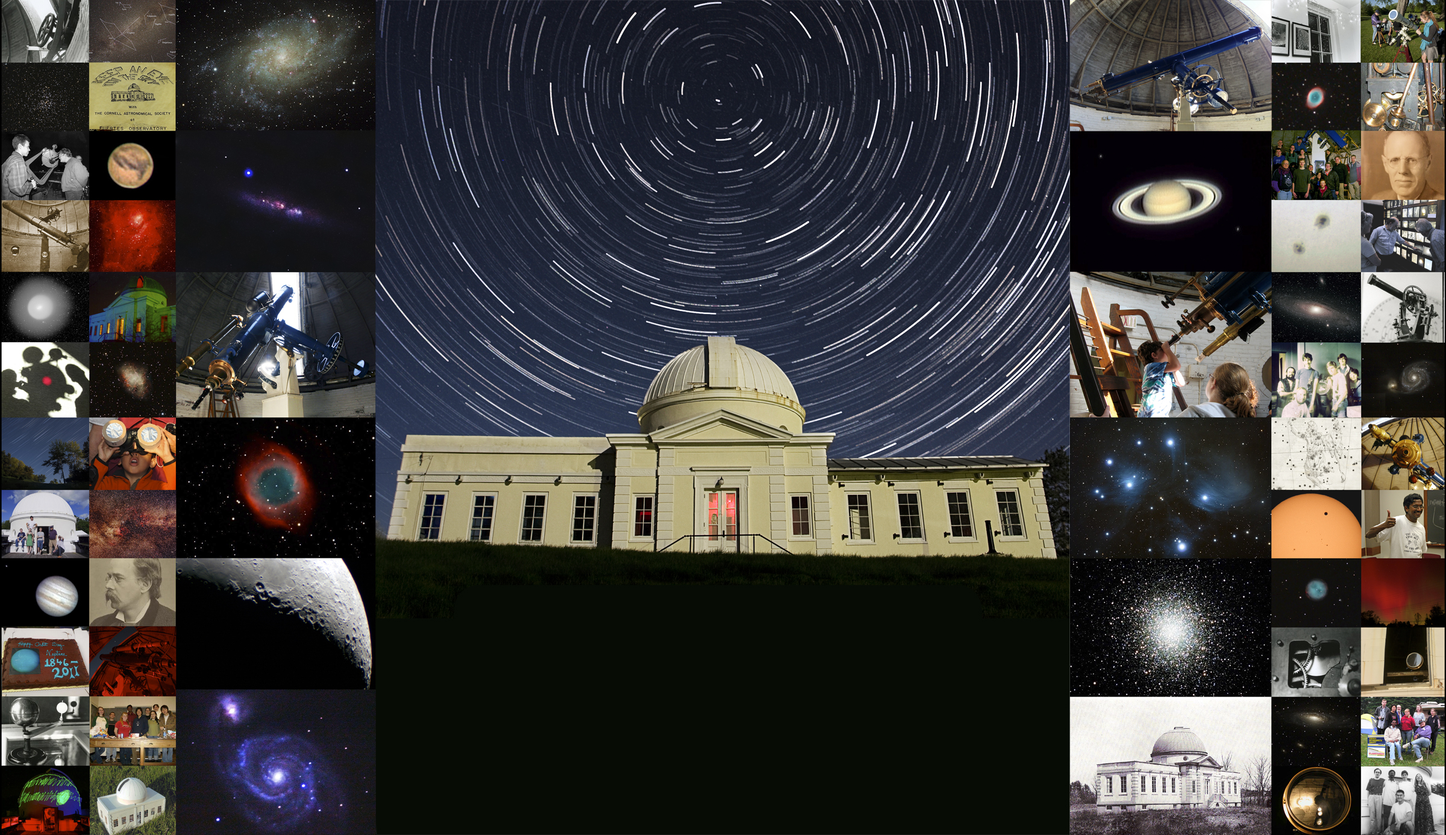
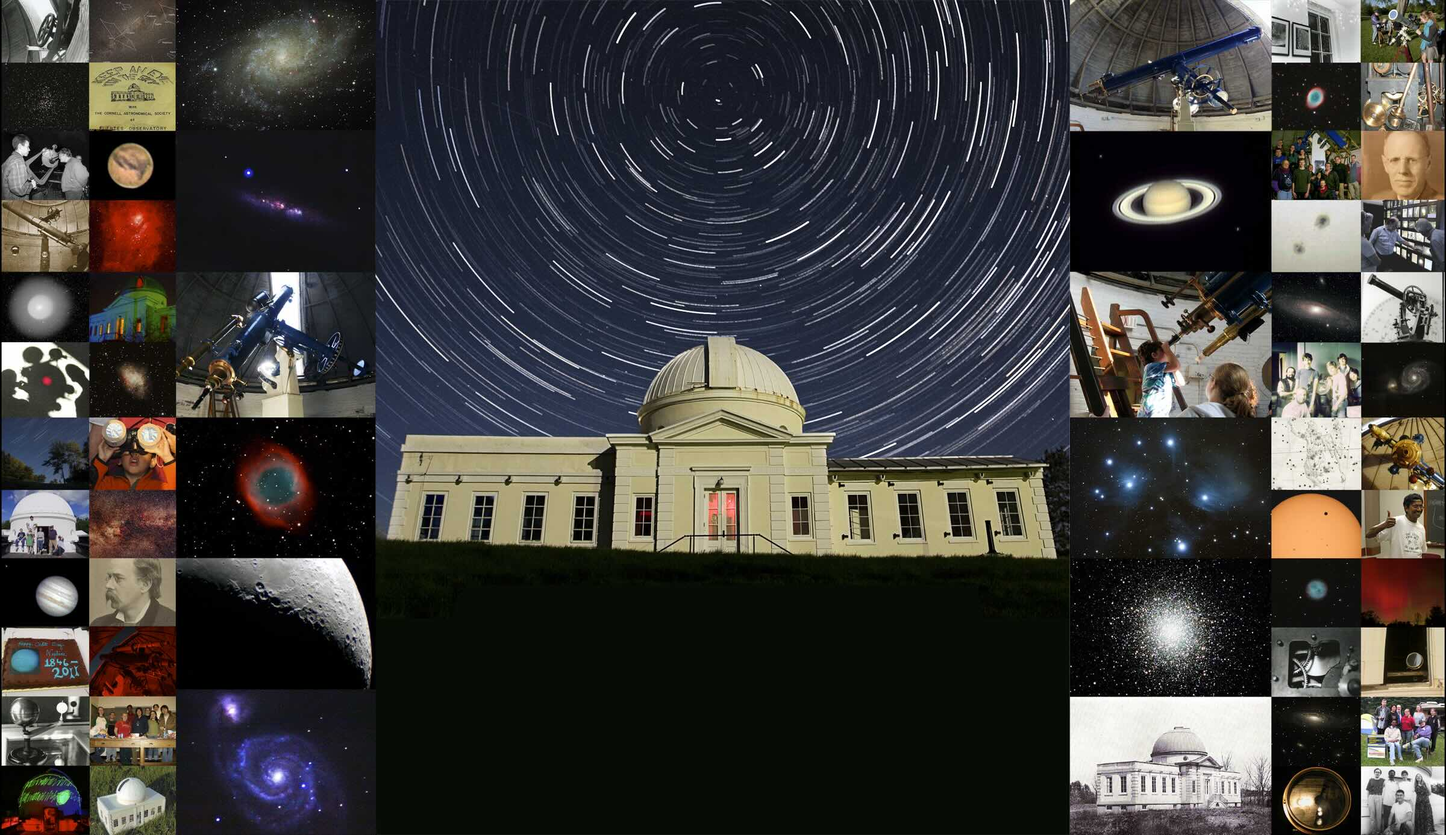
Compress a number of images

diff --git a/data/js/accordion.js b/data/js/accordion.js
@@ -4,7 +4,7 @@ let imageURLs = [
     "/data/img/obs.jpg",
     "/data/img/oai.jpg",
     "/data/img/c14deck.jpg",
-    "/data/img/bob.png",
+    "/data/img/bob.jpg",
     "/data/img/ag.jpg",
 ];
 //initially empty
@@ -65,14 +65,12 @@ let slideIndex = 1;
 showSlide(slideIndex);
 
 function openLightbox() {
-    if (document.getElementById('hamburger') != null)
-        {
-            document.getElementById('hamburger').classList.add('hamburger_hide');
-        }
-        else if (document.getElementById('burger') != null)
-        {
-            document.getElementById('burger').classList.add('burger_hide');
-        }
+    if (document.getElementById('hamburger') != null) {
+        document.getElementById('hamburger').classList.add('hamburger_hide');
+    }
+    else if (document.getElementById('burger') != null) {
+        document.getElementById('burger').classList.add('burger_hide');
+    }
     document.getElementById('lightbox').style.display = 'block';
     document.getElementsByTagName('html')[0].style.overflow = 'hidden';
     document.getElementsByTagName('body')[0].style.overflow = 'hidden';
@@ -80,16 +78,14 @@ function openLightbox() {
 };
 
 function closeLightbox() {
-    if (document.getElementById('hamburger') != null)
-        {
-            document.getElementById('hamburger').classList.add('hamburger_show');
-            document.getElementById('hamburger').classList.remove('hamburger_hide');
-        }
-        else if (document.getElementById('burger') != null)
-        {
-            document.getElementById('burger').classList.add('burger_show');
-            document.getElementById('burger').classList.remove('burger_hide');
-        }
+    if (document.getElementById('hamburger') != null) {
+        document.getElementById('hamburger').classList.add('hamburger_show');
+        document.getElementById('hamburger').classList.remove('hamburger_hide');
+    }
+    else if (document.getElementById('burger') != null) {
+        document.getElementById('burger').classList.add('burger_show');
+        document.getElementById('burger').classList.remove('burger_hide');
+    }
     document.getElementById('lightbox').style.display = 'none';
     document.getElementsByTagName('html')[0].style.overflow = 'auto';
     document.getElementsByTagName('body')[0].style.overflow = 'auto';
@@ -133,29 +129,25 @@ function showSlide(n) {
 
 
 function resizeSlide(n) {
-    i = n-1;
-    imgH =  document.getElementsByClassName('slide')[i].children[0].height;
-    imgW =  document.getElementsByClassName('slide')[i].children[0].width;
+    i = n - 1;
+    imgH = document.getElementsByClassName('slide')[i].children[0].height;
+    imgW = document.getElementsByClassName('slide')[i].children[0].width;
     vpH = window.innerHeight;
     vpW = window.innerWidth;
-    if (document.getElementsByClassName('slide')[i].children[0].height/document.getElementsByClassName('slide')[i].children[0].width > ((5/6) * (vpH/vpW)))
-    {   
-        document.getElementsByClassName('slide')[0].parentElement.style.width = (vpH * 7/10  * (imgW/imgH) )+ 'px';
+    if (document.getElementsByClassName('slide')[i].children[0].height / document.getElementsByClassName('slide')[i].children[0].width > ((5 / 6) * (vpH / vpW))) {
+        document.getElementsByClassName('slide')[0].parentElement.style.width = (vpH * 7 / 10 * (imgW / imgH)) + 'px';
         document.getElementsByClassName('slide')[0].parentElement.style.height = 'auto';
 
     }
-    else
-    {
-        document.getElementsByClassName('slide')[0].parentElement.style.width = (vpW * 9/10 ) + 'px';
+    else {
+        document.getElementsByClassName('slide')[0].parentElement.style.width = (vpW * 9 / 10) + 'px';
         document.getElementsByClassName('slide')[0].parentElement.style.height = 'auto';
 
     }
-    if (document.getElementsByClassName('slide')[i].childElementCount >= 2)
-    {
+    if (document.getElementsByClassName('slide')[i].childElementCount >= 2) {
         document.getElementsByClassName('slide')[i].children[1].style.fontSize = vpH / 40 + 'px';
     }
-    if (document.getElementsByClassName('slide')[i].childElementCount >= 3)
-    {
+    if (document.getElementsByClassName('slide')[i].childElementCount >= 3) {
         document.getElementsByClassName('slide')[i].children[2].style.fontSize = vpH / 60 + 'px';
     }
 }

diff --git a/about/telescope/index.html b/about/telescope/index.html
@@ -60,7 +60,7 @@
         <div id="main_box" style="width: 100%; background-color: rgba(0, 0, 0, 0.65); text-align: left; margin: auto; padding: 6vh 2vw; max-width: 100%; box-sizing: border-box; text-shadow: rgba(0, 0, 0, 0.5) -1px -1px 0px, rgba(0, 0, 0, 0.5) 1px 1px 0px; line-height: 1.375em;">
             <div class="main_content" style="display: grid; grid-template-columns: 49% 2% 49%;">
                 <div style="padding: 1vw; text-align: center;">
-                    <img src="/data/img/irv.png" style="width: 100%; border: 1px solid white; max-width: 50vw;" alt="The Irving Porter Church Memorial Refractor Telescope">
+                    <img src="/data/img/irv.jpg" style="width: 100%; border: 1px solid white; max-width: 50vw;" alt="The Irving Porter Church Memorial Refractor Telescope">
                 </div>
                 <div></div>
                 <div>
@@ -109,7 +109,7 @@
 
             <!-- Credit -->
             <div>
-                <p>This page draws from <a href="https://topics.sirtf.com/Fuertes/FuertesTelescope">a description of the telescope</a>, with permission, by former Cornell astronomer Don Barry, one of several to have led restorations of the telescope over its long lifetime.</p>
+                <p>This page draws from <a target="_blank" href="https://topics.sirtf.com/Fuertes/FuertesTelescope">a description of the telescope</a>, with permission, by former Cornell astronomer Don Barry, one of several to have led restorations of the telescope over its long lifetime.</p>
             </div>
 
             <div style="padding: 2vh;"></div>

diff --git a/about/slides/index.html b/about/slides/index.html
@@ -16,7 +16,7 @@
             width: 100%;
             height: 100%;
             z-index: -10;
-            background: url(/data/img/slide/horsehead.jpeg) no-repeat top center;
+            background: url(/data/img/slide/horsehead.jpg) no-repeat top center;
             background-size: cover;
         }
 
@@ -73,7 +73,7 @@
         /* specific to this implementation */
         .parallax-layer.layer1 {
             background:
-                url(/data/img/slide/horsehead.jpeg) top center;
+                url(/data/img/slide/horsehead.jpg) top center;
         }
     </style>
 
@@ -516,7 +516,7 @@
                     </div>
                     <div class="main_content" style="display: grid; grid-template-columns: 39% 2% 59%;">
                         <div class="img_contain">
-                            <img src="/data/img/slide/horsehead.jpeg" class="img" alt="Horsehead Nebula">
+                            <img src="/data/img/slide/horsehead.jpg" class="img" alt="Horsehead Nebula">
                         </div>
                         <div></div>
                         <div class="capt_contain">

diff --git a/events/openhouse/index.html b/events/openhouse/index.html
@@ -34,7 +34,7 @@
 
         <!-- Title image -->
         <div style="position: relative; text-align: center;">
-            <img src="/data/img/openhouse.png" style="width: 75%; border: 0.5px solid black; box-shadow: 0px 0px 7.5px rgba(0, 0, 0, 0.5);" alt="Observing deck during an open house night. Members and visitors are seen using a Celestron 14-inch Schmidt-Cassegrain telescope, an Orion 10-inch Dobsonian telescope, and a pair of binoculars.">
+            <img src="/data/img/openhouse.jpg" style="width: 75%; border: 0.5px solid black; box-shadow: 0px 0px 7.5px rgba(0, 0, 0, 0.5);" alt="Observing deck during an open house night. Members and visitors are seen using a Celestron 14-inch Schmidt-Cassegrain telescope, an Orion 10-inch Dobsonian telescope, and a pair of binoculars.">
         </div>
 
         <div style="padding: 2vh;"></div>

diff --git a/index.html b/index.html
@@ -84,7 +84,7 @@
             <div style="text-align: center;">
                 <span style="color: rgb(140, 191, 233); font-size: 24px; font-family: Georgia, serif;">Check out our newsletters by clicking below!</span>
                 <div style="padding: 1vh;"></div>
-                <a href="/newsletters"><img id="newsletter_img" src="data/img/newsletters.png" style="margin: auto; display: block; max-width: 30vw;" alt="Cornell Astronomical Society newsletters"></a>
+                <a href="/newsletters"><img id="newsletter_img" src="data/img/newsletters.jpg" style="margin: auto; display: block; max-width: 30vw;" alt="Cornell Astronomical Society newsletters"></a>
             </div>
             <div style="padding: 10vh;"></div>
             <div style="text-align: center;">

diff --git a/events/past/museum/updates/index.html b/events/past/museum/updates/index.html
@@ -4,7 +4,7 @@
 <head>
     <meta charset="UTF-8">
     <meta name="viewport" content="width=device-width, initial-scale=1.0">
-    <title>The Telescope | The Cornell Astronomical Society</title>
+    <title>Centennial Rennovation Project | The Cornell Astronomical Society</title>
     <link rel="stylesheet" href="/data/css/index.css">
     <style>
         body:before {

diff --git a/events/past/press/index.html b/events/past/press/index.html
@@ -16,7 +16,7 @@
             width: 100%;
             height: 100%;
             z-index: -10;
-            background: url(/data/img/irv.png) no-repeat top center;
+            background: url(/data/img/irv.jpg) no-repeat top center;
             background-size: cover;
         }
 
